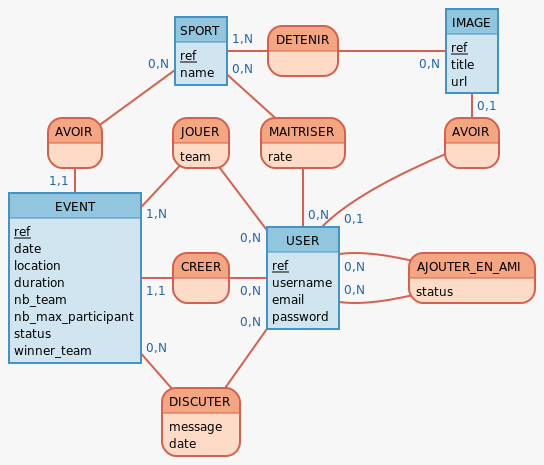
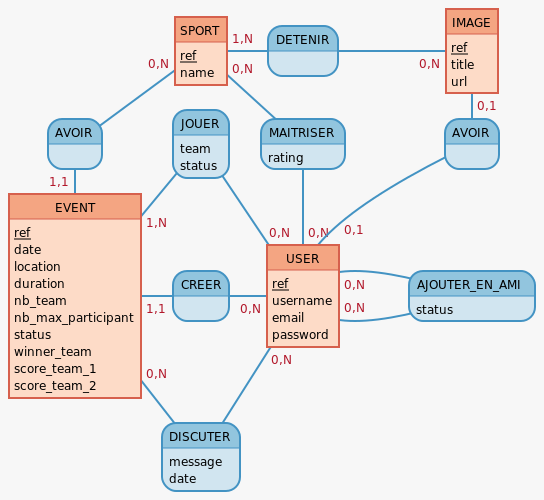
:hammer: MCD & MLD corrected + migrations prisma updated

diff --git a/vite.config.ts b/vite.config.ts
@@ -1,8 +1,8 @@
 import { UserConfig } from 'vitest';
 
 const config: UserConfig | any = {
-  // testMatch: ['**/__tests__/**/*.(ts|tsx|js|jsx)'],
-  // extensions: ['ts', 'tsx', 'js', 'jsx'],
+  // testMatch: ['**/__tests__/**/*.(ts|js)'],
+  // extensions: ['ts', 'js'],
   exclude: ['./build/**/*', './node_modules/**/*'],
 };
 

diff --git a/docs/db_structure/dictionary_data.md b/docs/db_structure/dictionary_data.md
@@ -1,6 +1,7 @@
 # Database Schema Dictionary
 
-## Legend:
+## Legend
+
 - **PK**: Primary Key
 - **FK**: Foreign Key
 - **UQ**: Unique Constraint
@@ -8,6 +9,7 @@
 - **DF**: Default Value Constraint
 
 ## Table: user
+
 | Field        | Required | Data Type | Constraint   | Description                         |
 |--------------|----------|-----------|--------------|-------------------------------------|
 | id           | PK       | SERIAL    |              | User ID                             |
@@ -19,6 +21,7 @@
 | updatedAt    |          | TIMESTAMP |              | Last update timestamp               |
 
 ## Table: event
+
 | Field            | Required | Data Type | Constraint    | Description                          |
 |------------------|----------|-----------|---------------|--------------------------------------|
 | id               | PK       | SERIAL    |               | Event ID                             |
@@ -34,6 +37,7 @@
 | updatedAt        |          | TIMESTAMP |               | Last update timestamp                |
 
 ## Table: sport
+
 | Field        | Required | Data Type | Constraint   | Description                         |
 |--------------|----------|-----------|--------------|-------------------------------------|
 | id           | PK       | SERIAL    |              | Sport ID                            |
@@ -42,6 +46,7 @@
 | updatedAt    |          | TIMESTAMP |              | Last update timestamp               |
 
 ## Table: image
+
 | Field        | Required | Data Type | Constraint   | Description                         |
 |--------------|----------|-----------|--------------|-------------------------------------|
 | id           | PK       | SERIAL    |              | Image ID                            |
@@ -51,6 +56,7 @@
 | updatedAt    |          | TIMESTAMP |              | Last update timestamp               |
 
 ## Table: event_on_user
+
 | Field        | Required | Data Type | Constraint   | Description                         |
 |--------------|----------|-----------|--------------|-------------------------------------|
 | event_id     | PK, FK   | INTEGER   | FK (event)   | Event ID                            |
@@ -59,6 +65,7 @@
 | updatedAt    |          | TIMESTAMP |              | Last update timestamp               |
 
 ## Table: event_on_sport
+
 | Field        | Required | Data Type | Constraint   | Description                         |
 |--------------|----------|-----------|--------------|-------------------------------------|
 | event_id     | PK, FK   | INTEGER   | FK (event)   | Event ID                            |
@@ -67,6 +74,7 @@
 | updatedAt    |          | TIMESTAMP |              | Last update timestamp               |
 
 ## Table: user_on_sport
+
 | Field        | Required | Data Type | Constraint   | Description                         |
 |--------------|----------|-----------|--------------|-------------------------------------|
 | user_id      | PK, FK   | INTEGER   | FK (user)    | User ID                             |
@@ -75,6 +83,7 @@
 | updatedAt    |          | TIMESTAMP |              | Last update timestamp               |
 
 ## Table: sport_on_image
+
 | Field        | Required | Data Type | Constraint   | Description                         |
 |--------------|----------|-----------|--------------|-------------------------------------|
 | sport_id     | PK, FK   | INTEGER   | FK (sport)   | Sport ID                            |

diff --git a/docs/db_structure/mld.md b/docs/db_structure/mld.md
@@ -1,26 +1,73 @@
 # Conception Merise : MLD
 
-<!-- winner_team -> 0: by default, 1: winners, 2: loosers, 3: exeaco -->
-EVENT (id INTEGER, event_date DATE, location TEXT, duration INTEGER, nb_team INTEGER, nb_max_participant INTEGER, status TEXT, winner_team INTEGER, #user_id(id), #sport_id(name))
+<!-- winner_team -> 0: exeaco, 1: winners, 2: loosers -->
+EVENT (
+    id INTEGER,
+    event_date DATE,
+    location TEXT,
+    duration INTEGER,
+    nb_team INTEGER,
+    nb_max_participant INTEGER,
+    status TEXT,
+    winner_team INTEGER,
+    score_team_1 INTEGER,
+    score_team_2 INTEGER,
+    #user_id(id),
+    #sport_name(name)
+)
 
-USER (id INTEGER, username TEXT, email TEXT, password TEXT, #image_id(url))
+USER (
+    id INTEGER,
+    username TEXT,
+    email TEXT,
+    password TEXT,
+    #image_url(url)
+)
 
-SPORT (id INTEGER, name TEXT)
+SPORT (
+    id INTEGER,
+    name TEXT
+)
 
-IMAGE (id INTEGER, title TEXT, url TEXT)
+IMAGE (
+    id INTEGER,
+    title TEXT,
+    url TEXT
+)
 
 <!-- Convertion : JOUER, 1N EVENT, 0N USER -->
-<!-- team = 0 by default, 1 if the player is in the first team, 2 for the second one -->
-EVENT_ON_USER (event_id INTEGER, user_id INTEGER, team INTEGER)
+EVENT_ON_USER (
+    #event_id(id),
+    #user_id(id),
+    status TEXT,
+    team INTEGER
+)
 
 <!-- Convertion : AJOUTER_EN_AMI, 0N USER, 0N USER -->
-USER_ON_FRIEND (user_ask_id INTEGER, user_friend_id INTEGER, status TEXT)
+USER_ON_FRIEND (
+    #asked_id(id),
+    #asker_id(id),
+    status TEXT
+)
 
 <!-- Convertion : MAITRISER, 0N SPORT, 0N USER -->
-USER_ON_SPORT (user_sport_id INTEGER, sport_id INTEGER, rate INTEGER)
+USER_ON_SPORT (
+    id INTEGER,
+    user_id INTEGER,
+    sport_id INTEGER,
+    rating INTEGER
+)
 
 <!-- Convertion : DETENIR, 0N IMAGE, 1N SPORT -->
-SPORT_ON_IMAGE (image_id INTEGER, sport_image_id INTEGER)
+SPORT_ON_IMAGE (
+    #image_id(id),
+    #sport_image_id(id)
+)
 
 <!-- Convertion : DISCUTER, 0N EVENT, 0N USER -->
-EVENT_CHAT_ON_USER (user_event_id INTEGER, event_user_id INTEGER, message TEXT, date DATE)
+EVENT_CHAT_ON_USER (
+    user_id INTEGER,
+    event_id INTEGER,
+    message TEXT,
+    date DATE
+)

diff --git a/docs/db_structure/mcd.md b/docs/db_structure/mcd.md
@@ -1,3 +1,5 @@
+# Conception Merise : MCD
+
 :
 SPORT : ref, name
 DETENIR, 0N IMAGE, 1N SPORT
@@ -5,12 +7,12 @@ DETENIR, 0N IMAGE, 1N SPORT
 IMAGE : ref,title ,url
 
 AVOIR2, 11 EVENT, 0N SPORT
-JOUER, 1N EVENT, 0N USER: team
-MAITRISER, 0N SPORT, 0N USER: rate
+JOUER, 1N EVENT, 0N USER: team, status
+MAITRISER, 0N SPORT, 0N USER: rating
 :
 AVOIR, 01 IMAGE, 01 USER
 
-EVENT : ref, date, location, duration, nb_team, nb_max_participant, status, winner_team
+EVENT : ref, date, location, duration, nb_team, nb_max_participant, status, winner_team, score_team_1, score_team_2
 CREER, 11 EVENT, 0N USER
 USER : ref, username, email, password
 :
